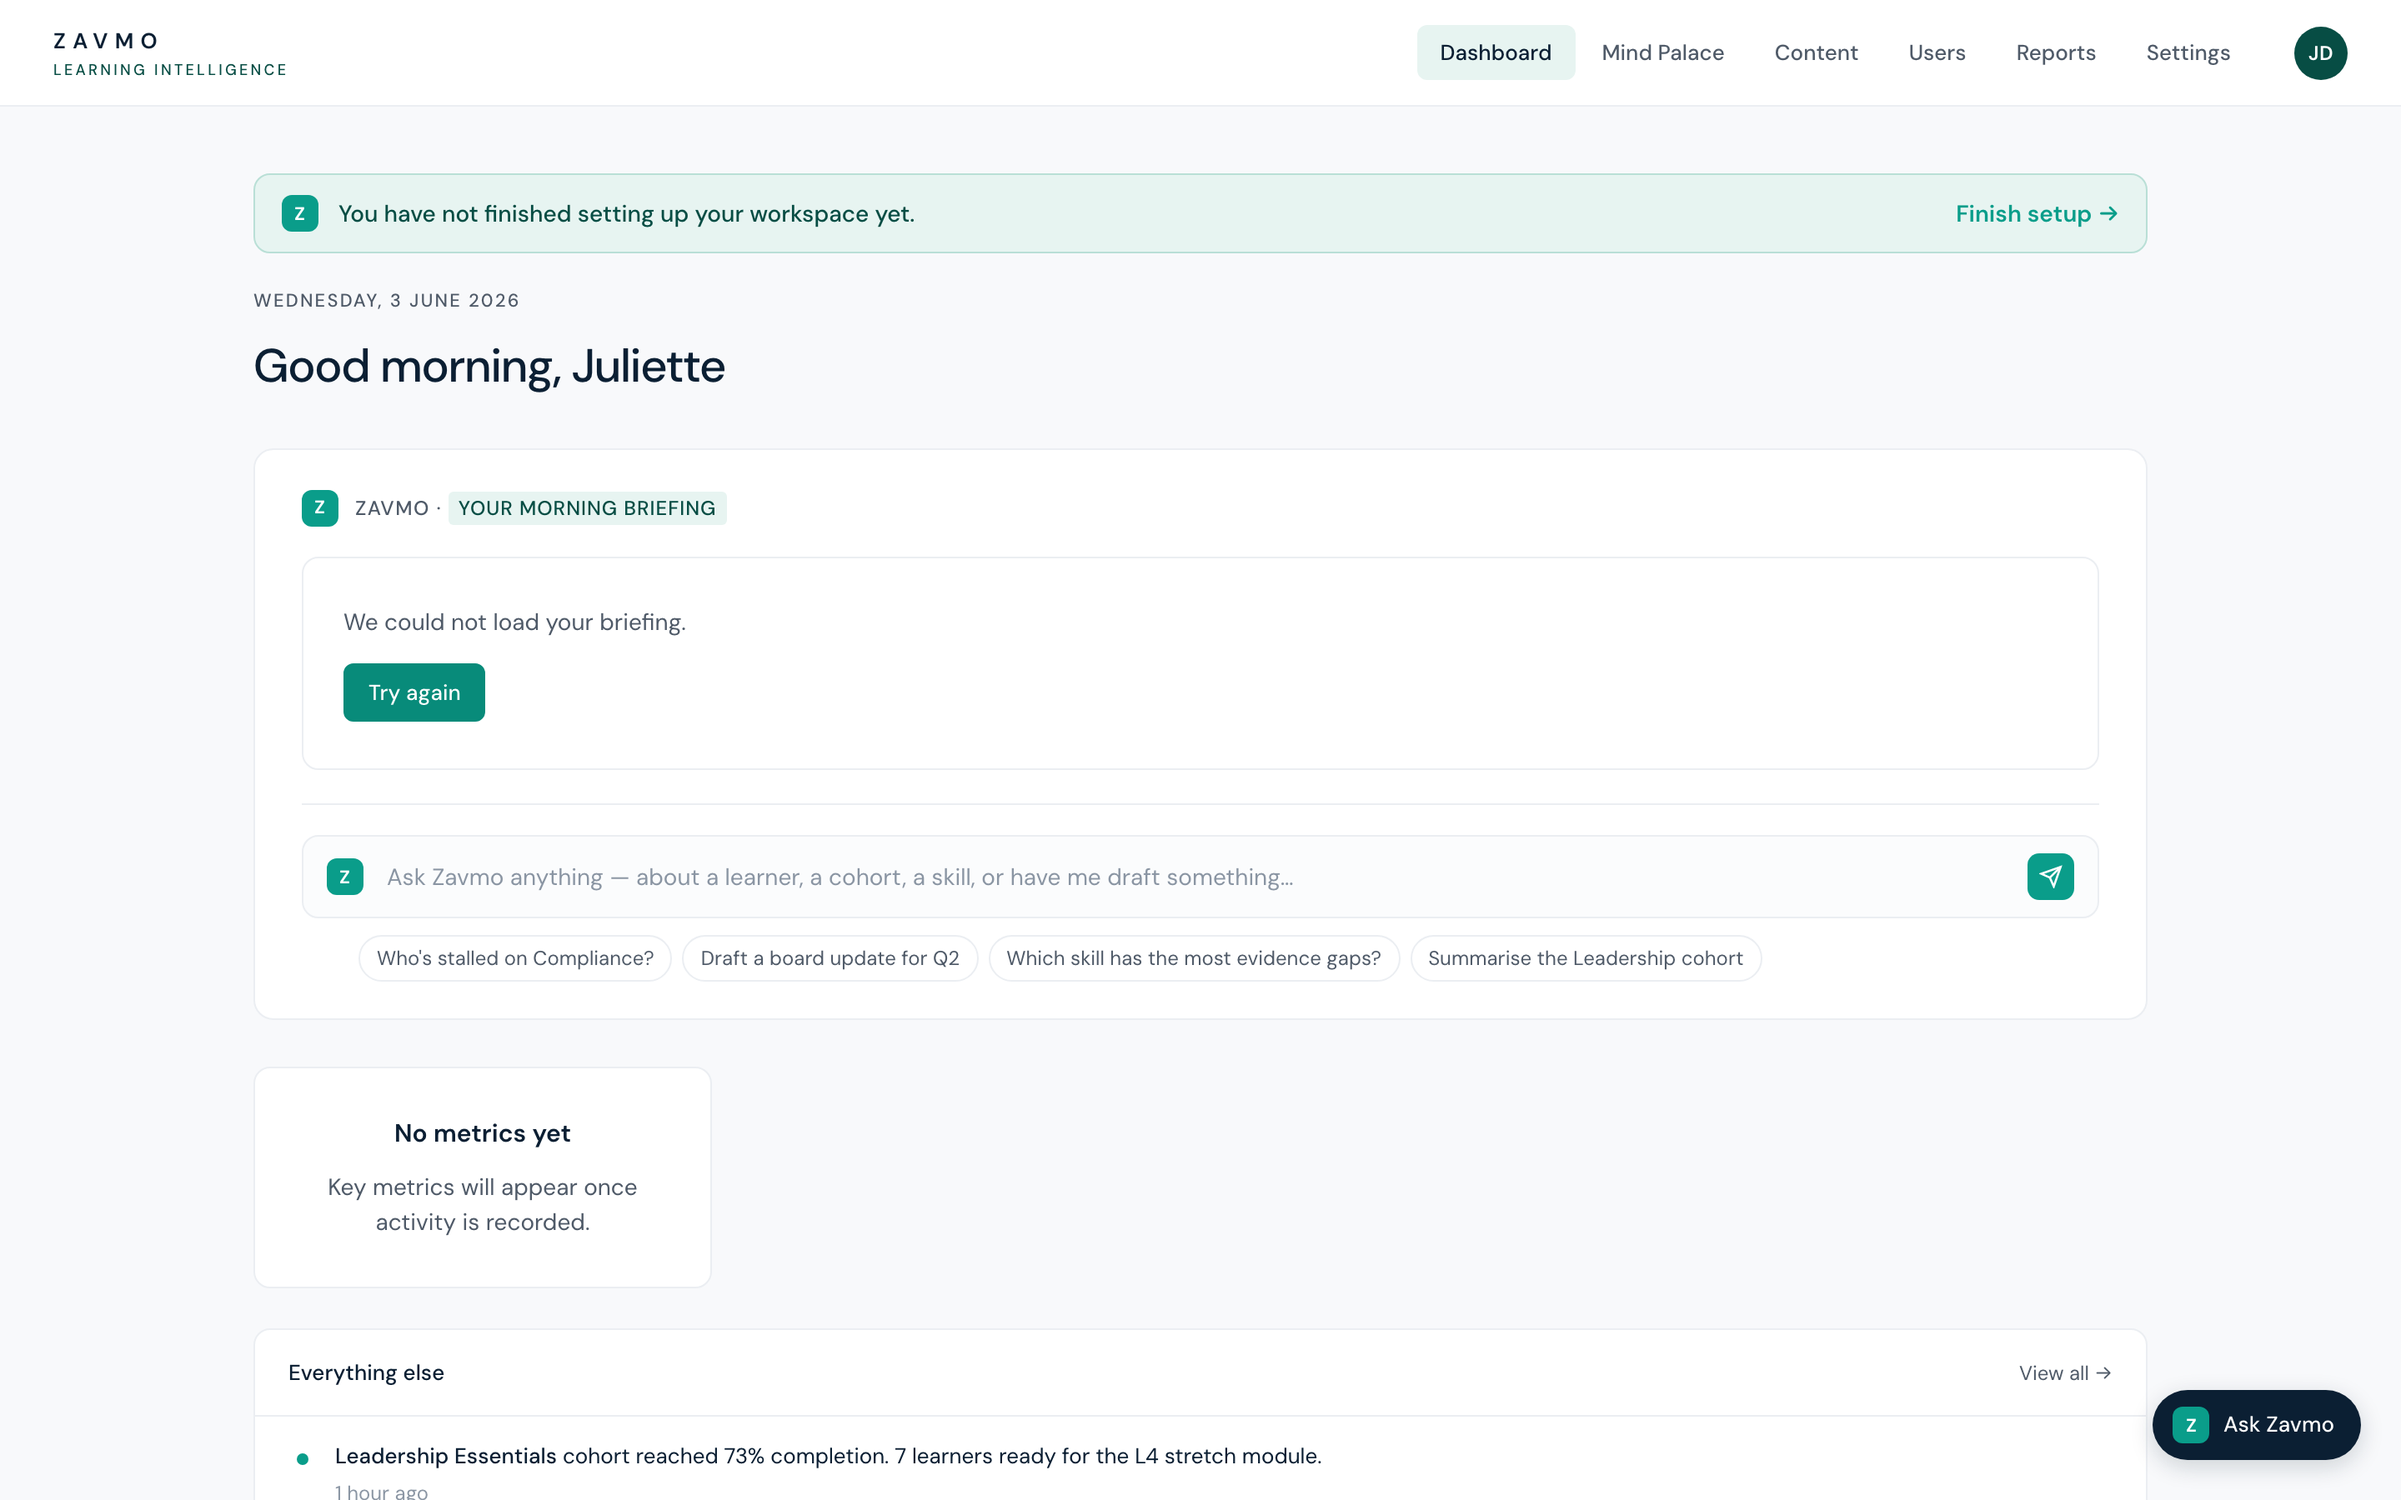
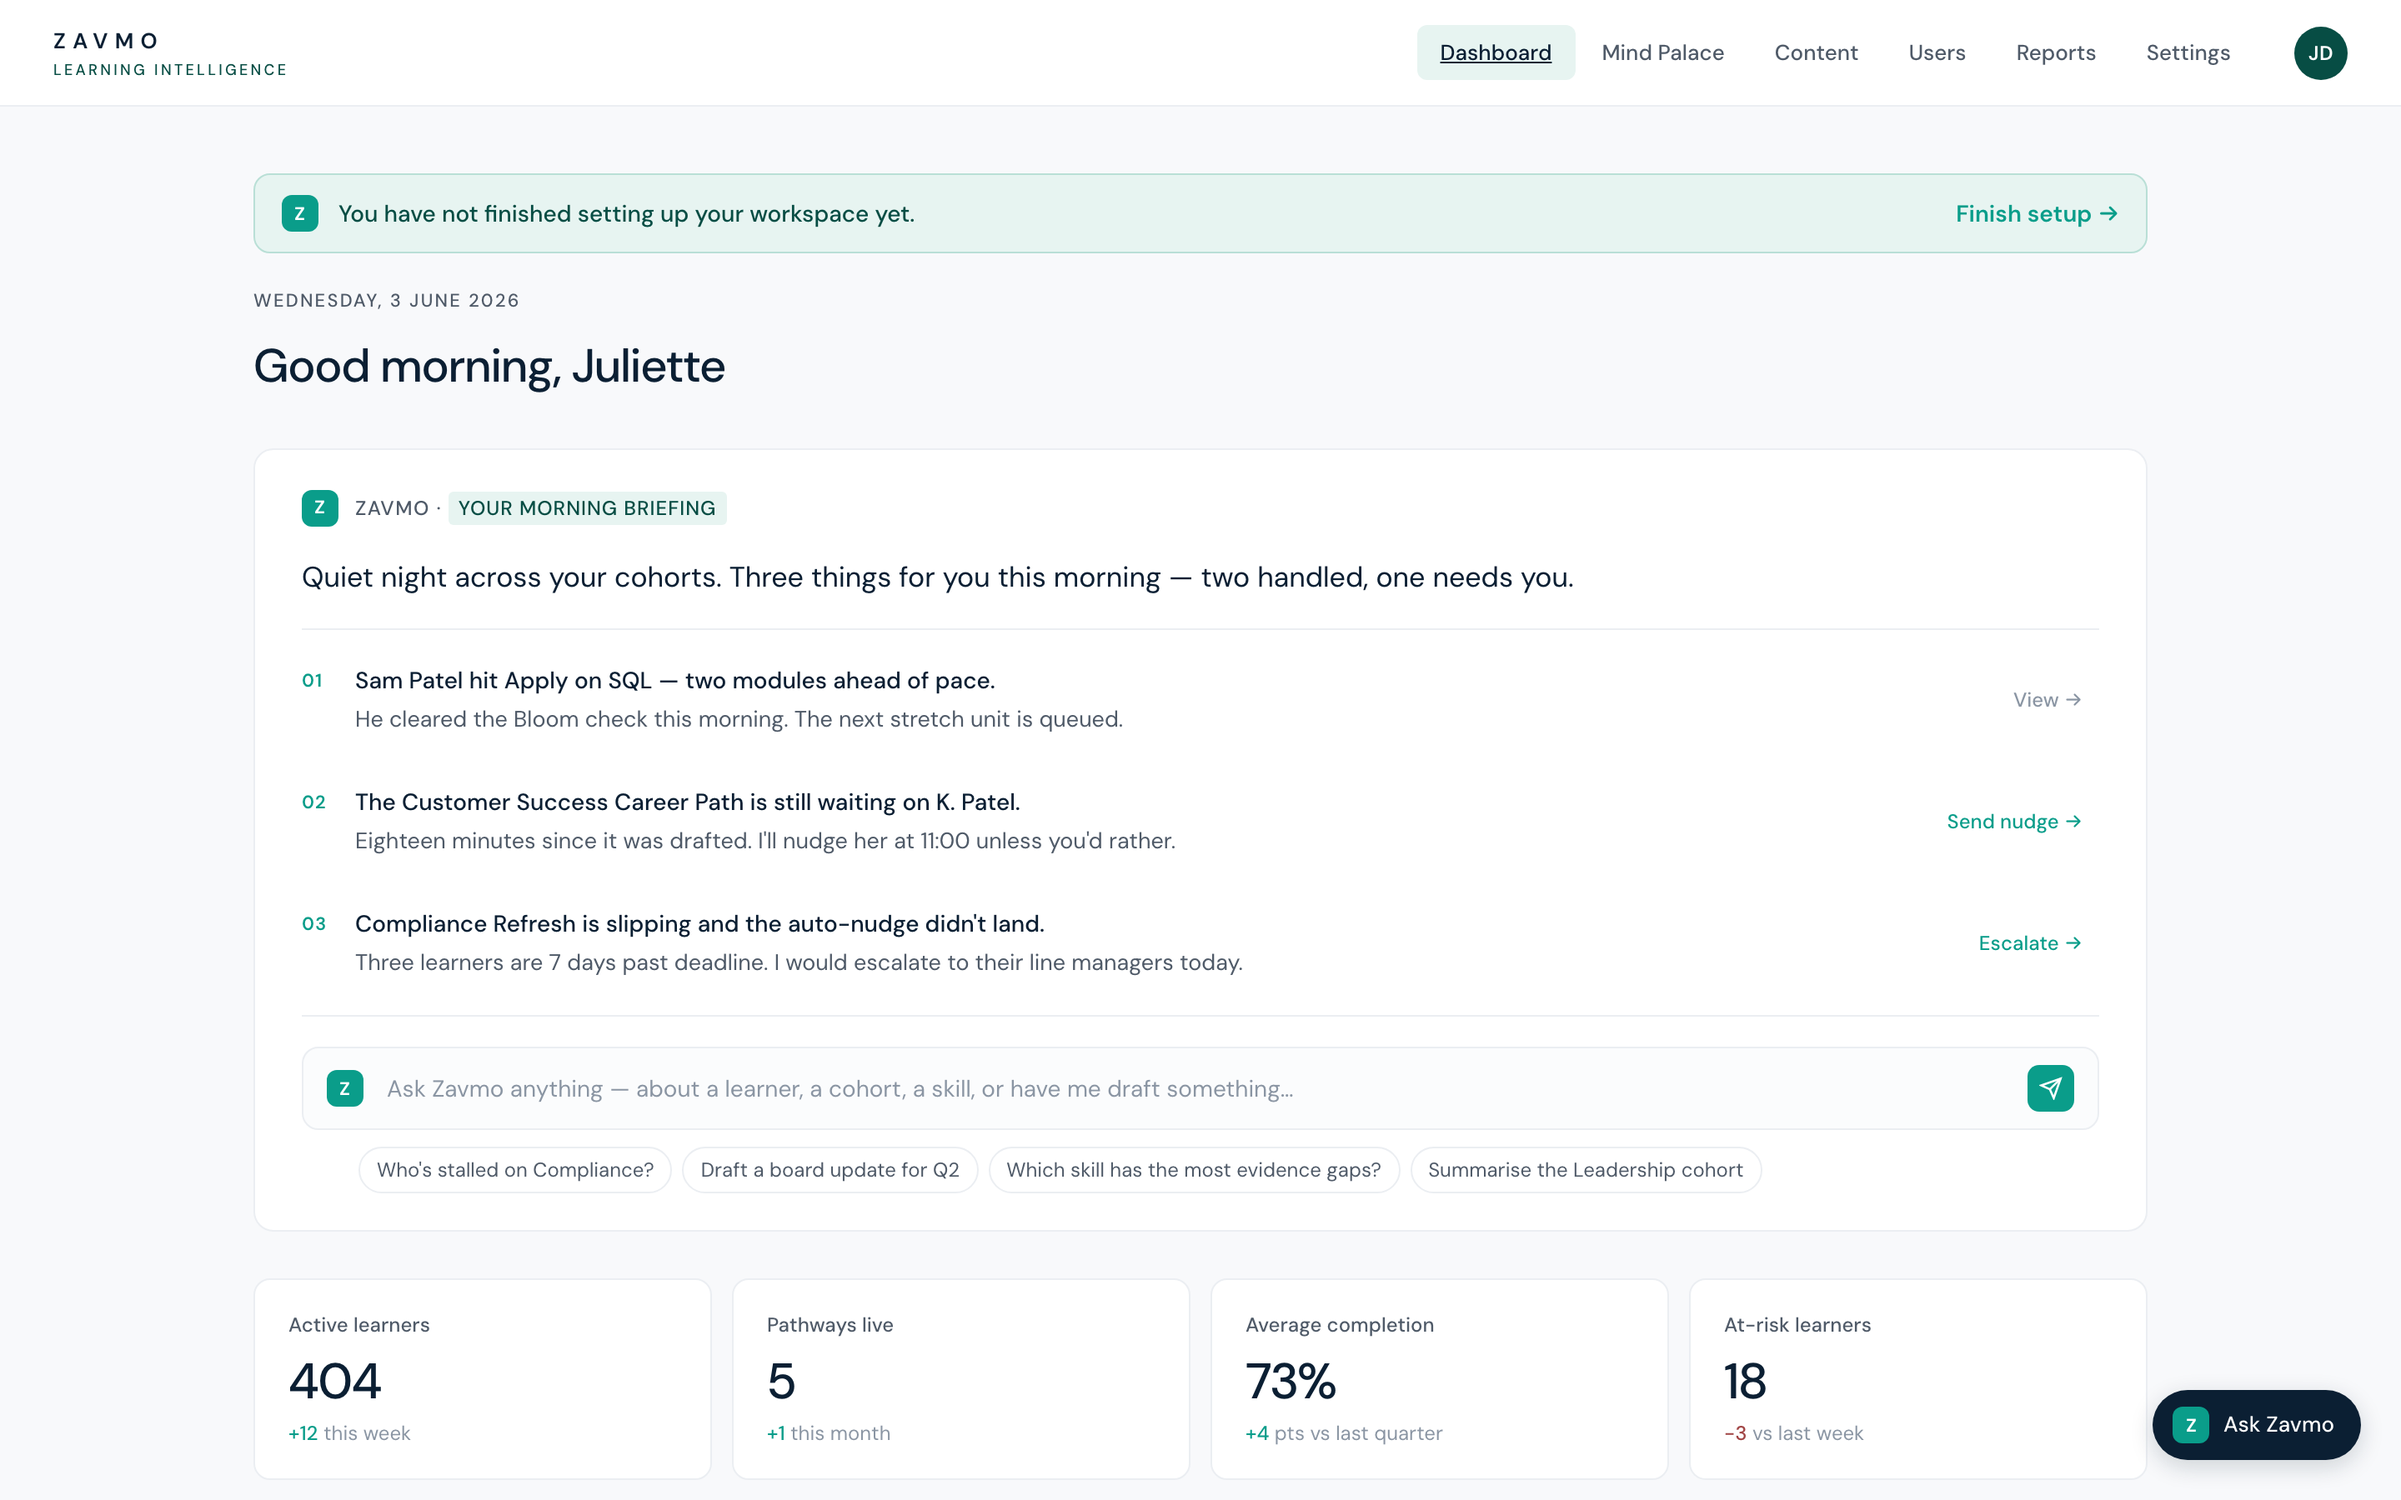
admin deck: rich dashboard + Mind Palace + recent reports (illustrative data)
Fed the real admin UI the canonical fixture data so the previously-empty/
broken views render fully: AI morning briefing + live metrics on the
dashboard, the platform Mind Palace (404 learners, 5 clusters, 30 LOs),
and the populated recent-reports list. All clearly illustrative dummy data.

diff --git a/admin-journey/index.html b/admin-journey/index.html
@@ -97,8 +97,8 @@ const S=[
     caption:'Zavmo guides a new admin through setup conversationally — organisation, first pathway, first cohort, integrations — and you can leave and resume at any point.' },
 
   { section:true, num:'PART 2', title:'The command centre', sub:'Your platform, every morning, at a glance.' },
-  { img:'03.png', eyebrow:'Dashboard', title:'Ask Zavmo anything',
-    caption:'An “Ask Zavmo” bar sits at the centre — ask about a learner, a cohort or a skill, or have it draft a board update — above an AI morning briefing and a live activity feed across the platform.' },
+  { img:'03.png', eyebrow:'Dashboard', title:'Your morning briefing',
+    caption:'An AI briefing triages what needs you — two handled overnight, one to escalate — an “Ask Zavmo” bar answers anything about a learner, cohort or skill, and live metrics track active learners, completion and at-risk in a glance.' },
 
   { section:true, num:'PART 3', title:'Building pathways', sub:'Don’t build from a blank page — describe it, and Zavmo drafts it.' },
   { img:'09.png', eyebrow:'Build · Pathway Builder', title:'Create a pathway',
@@ -114,9 +114,11 @@ const S=[
   { img:'05.png', eyebrow:'Users', title:'The learner directory',
     caption:'Live status for every learner, sourced from learn.zavmo.ai — progress, current stage (Discover → Deliver), cohort and pathway — with Zavmo flagging risks before they slip. (Names shown here are demo data.)' },
 
-  { section:true, num:'PART 5', title:'Intelligence', sub:'Reporting without dashboards.' },
+  { section:true, num:'PART 5', title:'Intelligence', sub:'Reporting without dashboards — and a live map of everything your people know.' },
   { img:'06.png', eyebrow:'Reports', title:'Reporting, by conversation',
     caption:'No dashboards to configure — just ask. Zavmo pulls from your xAPI LRS and Neo4j skills graph, clarifies if it needs to, and returns the answer as a summary, evidence, PDF, CSV, a Looker push, or a scheduled weekly.' },
+  { img:'12.png', eyebrow:'Intelligence · Mind Palace', title:'The platform knowledge map',
+    caption:'The same constellation learners see — rolled up across every active learner. Each star is a learning outcome; size shows how many are working it, colour shows mastery. Zavmo names the gravity wells (“Coaching Conversations”) and the stuck, lonely outcomes — across 404 learners and 184k xAPI statements.' },
 
   { section:true, num:'PART 6', title:'Configure & white-label', sub:'Wired into your stack, branded as yours.' },
   { img:'07.png', eyebrow:'Settings · Integrations', title:'Connected to your stack',
